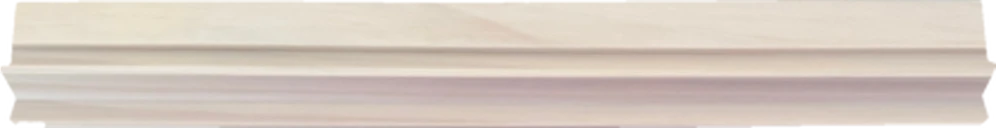
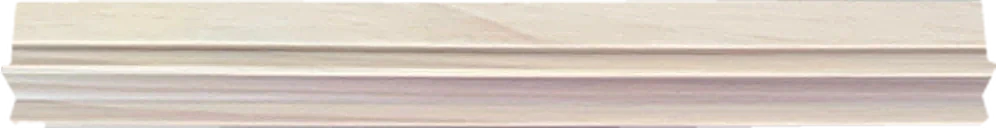
WIP v114 QA fixes (builder stopped by container restart)
Claude-Session: https://claude.ai/code/session_01U7RfeJEDwDLRZnhiPmiFwy

diff --git a/builder/fym_fix_nov02/wood_check.py b/builder/fym_fix_nov02/wood_check.py
@@ -1,0 +1,57 @@
+"""Gate [154] (Tiffany Nov 3, QA r9: 'driving me crazy'): every WOOD TONE rack shows real grain / texture, never a flat fill, on every
+render path. All rack pictures in the app (deck card, suitor tray, selected rack, match card, My hearts) go through rackSrc(id);
+Table view draws TVD.ro[id] or rackSrc(id). This runs the page (Chromium), takes both images for every visible Wood tone rack, and
+measures the fine texture inside the rack (luminance minus a 2px blur, std over opaque pixels). A flat colour render measures ~1-3;
+real wood grain measures well above. Also checks no other code path reads R[id].im directly.
+Usage: python3 wood_check.py <build dir> [sheet.jpg] -> [154] lines, exit 1 on failure."""
+import sys, time, subprocess, socket, json, base64, io, re
+import numpy as np
+from PIL import Image, ImageFilter, ImageDraw
+from playwright.sync_api import sync_playwright
+SIG = 6.0
+B = sys.argv[1].rstrip('/'); SHEET = sys.argv[2] if len(sys.argv) > 2 else None; MIN = 0.7
+s = socket.socket(); s.bind(('127.0.0.1', 0)); port = s.getsockname()[1]; s.close()
+srv = subprocess.Popen([sys.executable, '-m', 'http.server', str(port), '--bind', '127.0.0.1', '--directory', B], stdout=subprocess.DEVNULL, stderr=subprocess.DEVNULL); time.sleep(1)
+F = []
+try:
+    with sync_playwright() as p:
+        br = p.chromium.launch(); pg = br.new_page(viewport={'width': 390, 'height': 844}); pg.goto(f'http://127.0.0.1:{port}/index.html#notour'); pg.wait_for_function('window.__imgsReady===true', timeout=90000)
+        rows = pg.evaluate("""async()=>{const tv=D.tv||{},rt=tv.rt||{},out=[];const ids=Object.keys(rt).filter(k=>rt[k]==='wood'&&R[k]&&!R[k].hid);
+          const get=async u=>{if(!u)return '';if(u.startsWith('data:'))return u;try{const b=await (await fetch(u)).blob();return await new Promise(r=>{const f=new FileReader();f.onload=()=>r(f.result);f.readAsDataURL(b);});}catch(e){return ''}};
+          for(const k of ids){const d=rackSrc(k),t=(tv.ro&&tv.ro[k])||d;out.push({k,n:R[k].n,deck:await get(d),table:await get(t)});}return out;}""")
+        br.close()
+finally: srv.kill()
+def tex(uri):
+    """Grain runs along the rack, so a real wood photo varies ALONG each row; a flat render is ~constant along a row (only its
+    lip / shadow lines change row to row). Per row (interior pixels, 4px in from the outline): robust spread (1.4826 MAD) of the
+    luminance minus its own smooth trend along the row; the metric is the median over rows."""
+    if not uri: return None, None
+    from scipy import ndimage
+    im = Image.open(io.BytesIO(base64.b64decode(uri.split(',', 1)[1]))).convert('RGBA'); im.thumbnail((600, 600))
+    a = np.asarray(im).astype(float); m = a[..., 3] > 200
+    if m.all() or m.sum() < 200:  # photo on a white background (no cut-out): the rack = the non-white pixels
+        c = a[..., :3]; m = ((c.max(2) - c.min(2)) > 14) | (c.mean(2) < 215)
+    small = min(a.shape[:2]) < 60 or m.sum() < 6000; m = ndimage.binary_erosion(m, iterations=1 if small else 4); L = a[..., :3].mean(2); vals = []
+    for y in range(L.shape[0]):
+        xs = np.where(m[y])[0]
+        if len(xs) < (12 if small else 60): continue
+        row = L[y, xs]; d = row - ndimage.gaussian_filter1d(row, SIG, mode="nearest"); vals.append(1.4826 * np.median(np.abs(d - np.median(d))))
+    return (round(float(np.median(vals)), 2) if vals else 0.0), im
+res = []
+for r in rows:
+    for path in ('deck', 'table'):
+        v, im = tex(r[path]); res.append((r['n'], path, v, im))
+        if v is None: F.append(f"[154] {r['n']}: no {path} image")
+        elif v < MIN: F.append(f"[154] Wood tone rack shows a flat fill, no grain ({path} view, texture {v} < {MIN}): {r['n']}")
+UI = open(B + '/index.html').read(); i = UI.index('const D=') + 8; _, e = json.JSONDecoder().raw_decode(UI, i)
+if len(re.findall(r'R\[[^\]]{1,12}\]\.im\b(?!=)', UI[e:])) > 1: F.append('[154] some code reads a rack picture without rackSrc (wood fix would not reach it)')
+if SHEET:
+    W = 560; S = Image.new('RGB', (W * 2, 70 * len(res) // 2 + 70), 'white'); dr = ImageDraw.Draw(S)
+    for j, (n, path, v, im) in enumerate(res):
+        x, y = (j % 2) * W, (j // 2) * 70
+        if im is not None:
+            t = im.copy(); t.thumbnail((360, 52)); bg = Image.new('RGB', t.size, '#ffffff' if j % 4 < 2 else '#1f2a44'); bg.paste(t, (0, 0), t); S.paste(bg, (x + 4, y + 4))
+        dr.text((x + 370, y + 8), f'{n[:30]}\n{path}  tex {v}', fill='red' if (v or 0) < MIN else 'black')
+    S.save(SHEET)
+for f in F: print(f)
+print('wood check', 'FAIL' if F else 'ok', json.dumps([(n, p_, v) for n, p_, v, _ in res])); sys.exit(1 if F else 0)

diff --git a/builder/fym_fix_nov02/tour114.py b/builder/fym_fix_nov02/tour114.py
@@ -52,6 +52,8 @@ h = h[:i] + STEPS + h[j:]
 rep("function tourTarget(s){return s.b.split(',')", "function tourTarget(s){return (typeof s.b==='function'?s.b():s.b).split(',')")
 # a target in the fixed top bar (My match cards under the heart) is on screen even though it sits above the 56px line
 rep("const r=b.getBoundingClientRect(),seen=r.bottom>56&&r.top<innerHeight;", "const r=b.getBoundingClientRect(),seen=(r.bottom>56||!!b.closest('.tbx'))&&r.top<innerHeight;")
+# QA r9: the counter counted skipped steps ('3 of 22' then '9 of 22'): count only the steps this person actually sees
+rep("<span>${TOUR.step+1} of ${TSTEPS.length}</span>", "<span>Step ${TOUR.log.length}</span>")
 # the top-bar target (My match cards) is fixed: never scroll the page for it (the card stays on screen)
 rep(" else if(r.top<TOPS||r.bottom>vh){b.scrollIntoView(", " else if((r.top<TOPS||r.bottom>vh)&&!b.closest('.tbx')){b.scrollIntoView(")
 # re-check on every real action; remember the actions the steps wait for
@@ -63,11 +65,17 @@ document.addEventListener('input',e=>{if(!TOUR.on)return;if(e.target&&/^(tsq|mdq
 document.addEventListener('change',e=>{if(!TOUR.on)return;if(e.target&&e.target.closest&&e.target.closest('.tfind'))TOUR.f.find=1;setTimeout(tourSync,120);},true);
 /* the bubble never sits on its target: for 3s after each paint, if a late image or the app's own scroll moved the target under
    the bubble, dock it again (only when the target and bubble fit on screen together) */
-{const _tp=tourPaint;tourPaint=function(){_tp.apply(this,arguments);let n=0;clearInterval(TOUR.wI);TOUR.wI=setInterval(()=>{if(!TOUR.on||++n>12){clearInterval(TOUR.wI);return;}
+{const _tp=tourPaint;tourPaint=function(){_tp.apply(this,arguments);
+ /* QA r9: a NEW step's bubble stays invisible until its target stops moving (late image, the app's own scroll), then docks and shows: no flash over the photo */
+ {const c0=$('coach'),s0=TSTEPS[TOUR.step];if(c0&&s0&&!s0.hand&&TOUR.lastShown!==TOUR.step){TOUR.lastShown=TOUR.step;c0.style.opacity='0';let last='',k=0;clearInterval(TOUR.stI);
+  TOUR.stI=setInterval(()=>{const cc=$('coach'),b=tourTarget(s0);if(!cc||!TOUR.on||TSTEPS[TOUR.step]!==s0){clearInterval(TOUR.stI);if(cc)cc.style.opacity='';return;}
+   const r=b&&b.getBoundingClientRect(),key=r?[r.top,r.left,r.height].map(Math.round).join():'x';
+   if(key===last||++k>22||!b){clearInterval(TOUR.stI);if(b){const q=cc.getBoundingClientRect();if(!(q.bottom<=r.top||q.top>=r.bottom||q.right<=r.left||q.left>=r.right)&&r.height+q.height+90<=innerHeight)coachPlace(cc,b);}cc.style.opacity='';}last=key;},70);}}
+ let n=0;clearInterval(TOUR.wI);TOUR.wI=setInterval(()=>{if(!TOUR.on||++n>12){clearInterval(TOUR.wI);return;}
  const s=TSTEPS[TOUR.step];if(!s||s.hand)return;const b=tourTarget(s),c=$('coach');if(!b||!c||c.style.visibility==='hidden')return;const r=b.getBoundingClientRect(),q=c.getBoundingClientRect();
  const over=!(q.bottom<=r.top||q.top>=r.bottom||q.right<=r.left||q.left>=r.right);if(over&&r.height+q.height+90<=innerHeight)coachPlace(c,b);},250);};}
 const NOTOUR=""")
-rep("TOUR.on=true;TOUR.step=0;TOUR.log=[];", "TOUR.on=true;TOUR.step=0;TOUR.log=[];TOUR.f={};")
+rep("TOUR.on=true;TOUR.step=0;TOUR.log=[];", "TOUR.on=true;TOUR.step=0;TOUR.log=[];TOUR.f={};TOUR.lastShown=-1;")
 rep("document.querySelectorAll('.bnc').forEach(e=>e.classList.remove('bnc'));", "document.querySelectorAll('.bnc,.tring').forEach(e=>e.classList.remove('bnc','tring'));", 2)
 rep("if(b&&!s.hand)b.classList.add('bnc');", "if(b&&!s.hand)b.classList.add(s.ring?'tring':'bnc');")
 h = h.replace('</style>', '.tring{outline:3px solid #c8325f;outline-offset:4px;border-radius:14px;box-shadow:0 0 0 8px rgba(200,50,95,.12)}</style>', 1)

diff --git a/builder/fym_fix_nov02/cards_check.py b/builder/fym_fix_nov02/cards_check.py
@@ -20,6 +20,15 @@ try:
           x.click();out.afterRm=MCH.get().length;const t=document.getElementById('mctoast');out.toast=!!t&&!t.hidden&&/Undo/.test(t.textContent);
           document.querySelector('#mctoast [data-mundo]').click();out.afterUndo=MCH.get().length;closeStars();
           out.label=document.body.innerHTML.includes('Save image')||String(renderCard).includes('Save image')||document.documentElement.outerHTML.includes('Save image / Share');return out}""")
+        # QA r9: the Undo toast must sit ABOVE the My hearts / match cards sheet, and the FIRST real tap on Undo restores the card
+        r2 = pg.evaluate("""async()=>{const s=D.sets.find(s=>s.m&&s.m.length);const rk=Object.keys(R).filter(k=>!R[k].hid)[0];MCH.put([]);S.set=D.sets.indexOf(s);S.fav=s.m[0][0];S.rpick=[rk];acctSaveMatch();
+          ACCT.tab='matches';openStars();await new Promise(r=>setTimeout(r,50));document.querySelector('#starsov [data-mrm]').click();await new Promise(r=>setTimeout(r,80));
+          const u=document.querySelector('#mctoast [data-mundo]');if(!u)return {err:'no Undo button'};const b=u.getBoundingClientRect(),x=b.left+b.width/2,y=b.top+b.height/2,top=document.elementFromPoint(x,y);
+          return {x,y,onTop:!!(top&&top.closest&&top.closest('#mctoast')),n:MCH.get().length}}""")
+        if not r2.get('err'):
+            pg.mouse.click(r2['x'], r2['y']); time.sleep(.3)
+            r2.update(pg.evaluate("({after:MCH.get().length,sheet:!!document.getElementById('starsov')})"))
+        r['undoTap'] = r2
         br.close()
 finally: srv.kill()
 if r.get('err'): F.append('[150] ' + r['err'])
@@ -31,6 +40,9 @@ else:
     if r['btns'] != r['cards'] or not r['cards']: F.append(f"[150] not every match card has a remove button ({r['btns']} of {r['cards']})")
     if r['afterRm'] != 1 or not r['toast']: F.append(f"[150] remove did not remove the card or show the Undo toast ({r})")
     if r['afterUndo'] != 2: F.append("[150] Undo did not bring the card back")
+    u = r.get('undoTap', {})
+    if u.get('err') or not u.get('onTop'): F.append(f"[150] the Undo toast sits under the My match cards sheet (a tap there hits the sheet) {u}")
+    elif u.get('after') != 1 or not u.get('sheet'): F.append(f"[150] the first tap on Undo did not restore the card (or closed the sheet) {u}")
     if not r['label']: F.append("[150] the card's save button does not say 'Save image'")
 for f in F: print(f)
 print('cards check', 'FAIL' if F else 'ok', json.dumps(r)); sys.exit(1 if F else 0)

diff --git a/builder/fym_fix_nov02/cards114.py b/builder/fym_fix_nov02/cards114.py
@@ -28,7 +28,7 @@ document.addEventListener('click',e=>{const q=s=>e.target.closest&&e.target.clos
  if(q('[data-mundo]')){e.preventDefault();e.stopImmediatePropagation();if(undo){MCH.put([undo,...MCH.get().filter(x=>x.t!==undo.t)]);try{if(ACCT.user)acctSave(true);}catch(_){}undo=null;if(document.getElementById('starsov')){ACCT.tab='matches';openStars();}}
   const el=document.getElementById('mctoast');if(el)el.hidden=true;return;}},true);})();</script>"""
 css = """.mcw{position:relative;min-width:0}.mcw .sit{width:100%}.mrm{position:absolute;top:4px;right:4px;z-index:2;width:26px;height:26px;border-radius:50%;border:0;background:rgba(255,255,255,.95);box-shadow:0 1px 4px rgba(0,0,0,.25);color:#76687f;font:700 13px/26px var(--body);padding:0;cursor:pointer}
-#mctoast{position:fixed;left:50%;bottom:calc(24px + env(safe-area-inset-bottom,0px));transform:translateX(-50%);z-index:460;background:#2a2036;color:#fff;border-radius:16px;padding:8px 10px 8px 16px;font:600 14px/1.35 var(--body);display:flex;align-items:center;gap:12px;box-shadow:0 8px 24px rgba(0,0,0,.25)}#mctoast[hidden]{display:none}#mctoast button{border:0;background:#fff;color:#c8325f;border-radius:999px;padding:6px 12px;font:700 13px/1 var(--body);cursor:pointer}"""
+#mctoast{position:fixed;left:50%;bottom:calc(24px + env(safe-area-inset-bottom,0px));transform:translateX(-50%);z-index:10060;background:#2a2036;color:#fff;border-radius:16px;padding:8px 10px 8px 16px;font:600 14px/1.35 var(--body);display:flex;align-items:center;gap:12px;box-shadow:0 8px 24px rgba(0,0,0,.25)}#mctoast[hidden]{display:none}#mctoast button{border:0;background:#fff;color:#c8325f;border-radius:999px;padding:6px 12px;font:700 13px/1 var(--body);cursor:pointer}"""
 h = h.replace('</style>', css + '</style>', 1)
 j = h.rindex('</body>') if '</body>' in h else len(h); h = h[:j] + js + h[j:]
 open(P, 'w').write(h); print('cards114 ok')

diff --git a/builder/fym_tour_place_check.py b/builder/fym_tour_place_check.py
@@ -100,6 +100,12 @@ with sync_playwright() as p:
                 if k in ('tiles', 'grid') and not pg.locator(sel).count():  # v104: tiles door opens on brand logos; a person taps a brand, then a set
                     pg.locator('#s-tiles .blg').first.click(); time.sleep(.7)
                 pg.locator(sel).first.click()
+                if V114:  # QA r9: the NEXT step's bubble may never flash on top of its target while the page settles (sampled every frame)
+                    fl = pg.evaluate("""()=>new Promise(res=>{const t0=performance.now(),bad=[];(function f(){if(TOUR.on){const s=TSTEPS[TOUR.step],c=document.getElementById('coach'),b=s&&!s.hand&&tourTarget(s);
+                      if(c&&b&&c.dataset.step===s.k){const cs=getComputedStyle(c),q=c.getBoundingClientRect(),r=b.getBoundingClientRect();
+                        if(+cs.opacity>.5&&cs.visibility!=='hidden'&&!(q.bottom<=r.top||q.top>=r.bottom||q.right<=r.left||q.left>=r.right)&&r.height+q.height+90<=innerHeight&&r.bottom>0&&r.top<innerHeight)bad.push(s.k+'@'+Math.round(performance.now()-t0));}}
+                      if(performance.now()-t0<900)requestAnimationFrame(f);else res(bad);})();})""")
+                    if fl: F(tag, f'bubble flashed on top of its target before docking: {fl[:4]}')
                 if V114 and k == 'door':
                     time.sleep(.4)
                     if pg.evaluate(f"!document.querySelector('#s-tiles .door [data-door=\"{wdoor}\"][aria-pressed=\"true\"]')"): F(tag, 'the tapped door does not show as selected')

diff --git a/builder/fym_gate.py b/builder/fym_gate.py
@@ -1754,6 +1754,15 @@ if '/*v114 table view*/' in UI:
         _l153 = [l for l in _o153.stdout.splitlines() if l.startswith('[153]')]
         if _o153.returncode and not _l153: _l153 = ['[153] hearts check failed: ' + (_o153.stderr or '')[-200:]]
         for _f in _l153[:8]: F.append(_f)
+# [154] Tiffany Nov 3 (QA r9, 'driving me crazy'): every Wood tone rack shows real grain, never a flat fill, on every render path
+# (rackSrc = deck card / suitor / selected rack / match card / My hearts; Table = TVD.ro or rackSrc). builder/fym_fix_nov02/wood_check.py
+if '/*v114 types*/' in UI:
+    if '/*v114 wood deck*/' not in UI: F.append("[154] the real-grain wood racks are not used in the rack deck / card / hearts (builder/fym_fix_nov02/wood114.py)")
+    import subprocess as _sp154
+    _o154 = _sp154.run([sys.executable, os.path.join(os.path.dirname(os.path.abspath(__file__)), 'fym_fix_nov02', 'wood_check.py'), B], capture_output=True, text=True, timeout=600)
+    _l154 = [l for l in _o154.stdout.splitlines() if l.startswith('[154]')]
+    if _o154.returncode and not _l154: _l154 = ['[154] wood grain check failed: ' + (_o154.stderr or '')[-200:]]
+    for _f in _l154[:8]: F.append(_f)
 # [151] Tiffany Nov 3 2:48pm: ONE type per rack (config/rack-types-nov03.json, by eye), Wood tone + Painted, no Walnut, no painted rack
 # in Wood tone. [152]: Tiffany's picks default OFF (tiles, mat door, racks), her picks still lead the mat deck, price = one dropdown.
 if '/*v114 table view*/' in UI:

diff --git a/builder/fym_fix_nov02/wood114.py b/builder/fym_fix_nov02/wood114.py
@@ -1,0 +1,15 @@
+"""v114 WOOD everywhere (QA r9 Nov 3, Tiffany's top complaint): the real-grain wood racks made for Table view (round 8:
+6 Bird & Bamboo stains from B&B's own WOOD STAINS photo, 4 Yellow Mountain from 2048px brand photos; config/tableview-rack-audit-
+nov02.json 'fixed', method 'real grain' / Provincial grain for Red Mahogany) now also show in the rack DECK, suitor tray, selected
+rack, match card and My hearts: every one of those reads rackSrc(id) = IMG[R[id].im], so at start-up these racks point R[id].im at
+the Table picture (TVD.ro). Nothing else changes. Gate [154]. Idempotent."""
+import sys, os, json
+P = sys.argv[1]; P = P if P.endswith('.html') else os.path.join(P, 'index.html'); h = open(P).read()
+if '/*v114 wood deck*/' in h: print('wood114 already'); sys.exit()
+R0 = os.path.join(os.path.dirname(os.path.abspath(__file__)), '..', '..')
+aud = json.load(open(os.path.join(R0, 'config/tableview-rack-audit-nov02.json')))['fixed']
+keys = sorted(k for k, v in aud.items() if 'grain' in v.get('method', ''))
+a = "const M=D.mats,R=D.racks,T=D.tiles,UNI=D.uni;"
+assert h.count(a) == 1, h.count(a)
+b = a + "/*v114 wood deck*/(" + json.dumps(keys) + ").forEach(k=>{const ro=D.tv&&D.tv.ro&&D.tv.ro[k];if(R[k]&&ro){IMG['wg:'+k]=ro;R[k].im='wg:'+k;}});"
+h = h.replace(a, b); open(P, 'w').write(h); print('wood114 ok', len(keys))

diff --git a/builder/table_view/white_grain_nov03.py b/builder/table_view/white_grain_nov03.py
@@ -1,0 +1,15 @@
+"""QA r9 (Nov 3): Bird & Bamboo White Wood Stain's real-grain band (from B&B's own WOOD STAINS photo) is so pale that on a phone it
+reads as a painted white rack. A white stain is a thin whitewash over real grain, so lift ONLY the photo's own fine grain (local
+contrast: + 1.8 x (image - its 3px blur)), same colour, same outline; nothing painted on. Run once on the asset (idempotent via the
+audit 'grain_lift' note). Usage: python3 white_grain_nov03.py"""
+import json, numpy as np
+from pathlib import Path
+from PIL import Image, ImageFilter
+R0 = Path(__file__).resolve().parents[2]; AUD = R0 / 'config/tableview-rack-audit-nov02.json'; aud = json.load(open(AUD))
+k = 'bb:White Wood Stain'; f = R0 / aud['fixed'][k]['file']
+if 'grain_lift' in aud['fixed'][k]: print('already'); raise SystemExit
+im = Image.open(f).convert('RGBA'); a = np.asarray(im).astype(float); bl = np.asarray(im.filter(ImageFilter.GaussianBlur(3))).astype(float)
+o = a.copy(); o[..., :3] = np.clip(a[..., :3] + 1.8 * (a[..., :3] - bl[..., :3]), 0, 255)
+Image.fromarray(o.astype(np.uint8), 'RGBA').save(f, 'WEBP', quality=92, method=6)
+aud['fixed'][k]['grain_lift'] = 'Nov 3 QA r9: the real grain lifted 1.8x (local contrast only) so the whitewash reads as wood, not paint'
+json.dump(aud, open(AUD, 'w'), indent=1); print('ok', f)

diff --git a/docs/MATCH-INBOX.md b/docs/MATCH-INBOX.md
@@ -149,3 +149,4 @@ Format: `- [date time] [who spotted] ITEM · why · fix wanted`
 - Nov 3 · Main · FYM racks step layout (Tiffany 1:58pm, from the holiday reel): the mat preview should sit JUST ABOVE the rack cards; today there's a big white gap around the racks and the mat is far from them. Tighten so mat + racks read as one table view.
 - Nov 3 · Main · LATE HOLIDAY PICKS IN: config/late-holiday-picks-nov03.json (33 picks on 10 mats; Tiffany 2:10pm). Add to the holiday albums + holiday page + FYM m-lists (Tiffany's real picks), racks per the STANDING rack rule (max one painted colour + wood/pearl/acrylic, no orange at Christmas). Bespoke A Very Merry Getaway: NOT in albums. Then the holiday albums group post + new-albums email go out (Main).
 - Nov 3 · Main (holiday reel fork) · FYM v113 card renderer: Rackin' Rudolph (Hip Hip) match card renders with NO tile photo (the tile circle is empty, e.g. on Candy Cane Lane; build/v4_cards.py). Check its tileFull/cf image.
+- Nov 3 · Matches & Catalog (v114 builder) · NEW for FYM + Mat Gallery, coordinator adds AFTER the 1.14 launch: Let's Be Besties Camellia Kaleidoscope OHBoN Studios Artist Mahjong Mat (https://letsbebesties.com/products/camellia-kaleidoscope-artist-collab-leatherette-mahjong-mat, live Nov 1). With Electric ZigZag + Christmas Lights (Nov 1 6:10pm lines) all 3 have TEMPORARY gate [100] ignore lines in config/partner-mat-sweep-ignore.json: REMOVE each when its mat is added.
